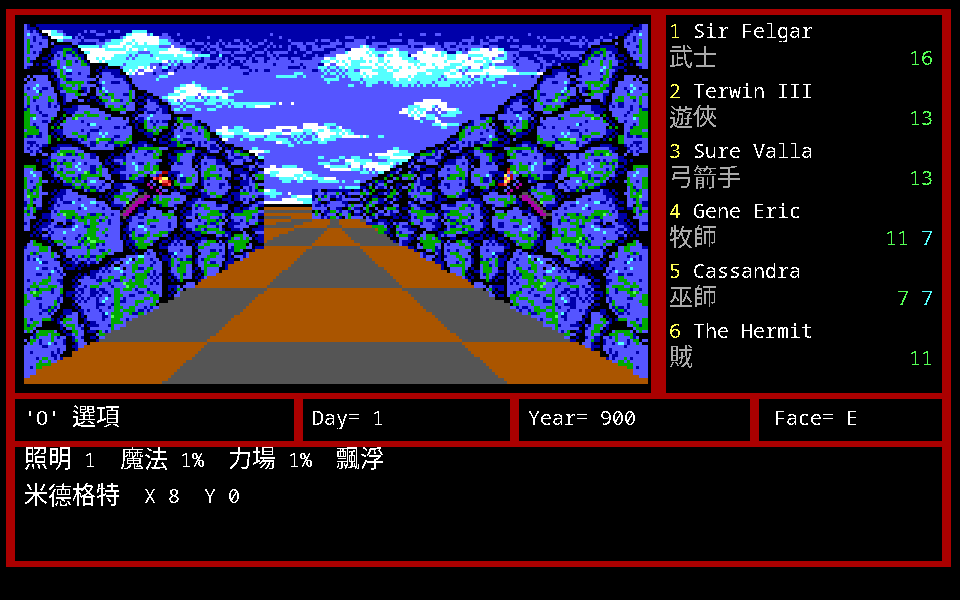
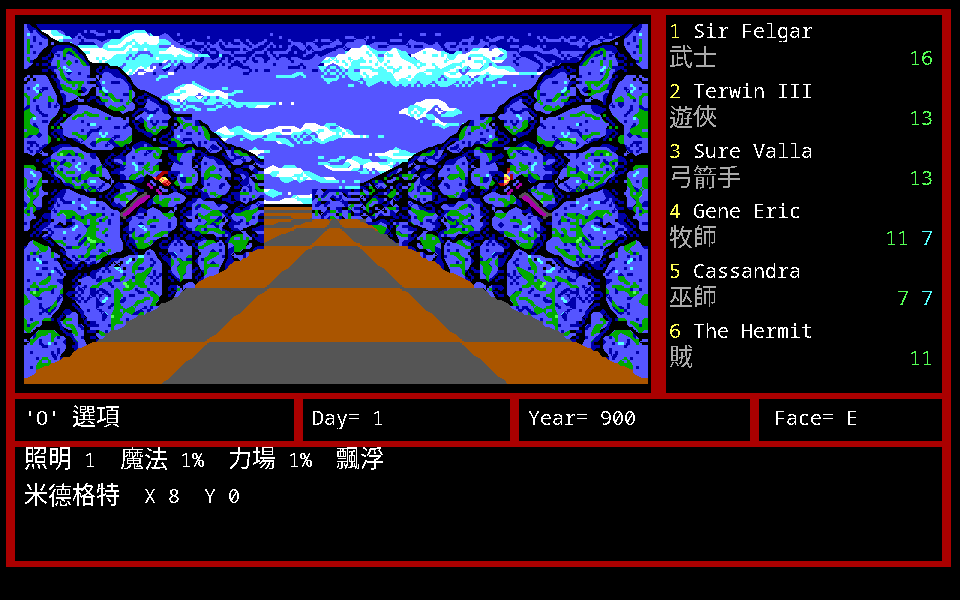
feat: Mega Drive 場景的調色盤解出來，第一人稱視野完整上色
整份 CRAM 就在 ROM `0x6FBEA`：128 bytes ＝ 四條 16 色。三條證據同時成立 ——
`0x6F900`–`0x6FD00` 裡唯一一段值全符合 `& 0x0EEE` 的連續區；全 ROM 掃
32-bit 立即值時 `0x0006FBEA` 命中八處而 `0x0006FBE8` 零命中（差的兩個
位元組就是「第 0 格不上傳」）；那八處都接著 `sub_2DBA(1, …)`（CRAM），
長度 `0x20`／`0x40`／`0x60`。

第 0 條就是方石砌那一套的顏色：灰色方石、褐色壁燈、藍天白雲、赭紅地磚。

**基底差兩個位元組不會有症狀**：用 `0x6FBE8` 畫出來仍然像合理的畫面，
只是雲變土黃、地變綠。這種錯只能靠「誰參考它」分辨，寫進文件了。

還沒定案的只剩「哪一套素材配哪一條線」：粗石與戶外用第 1 條看起來合理
（粗石變藍紫色，與 DOS 的 CAVE.16 同色系）但那只是假設，標在 todo 裡。

diff --git a/tools/mdscene.py b/tools/mdscene.py
@@ -95,6 +95,20 @@ TABLE_BASE = -0x35D2
 
 GRAY = [(255, 0, 255)] + [(i * 17, i * 17, i * 17) for i in range(1, 16)]
 
+# ROM 裡的整份 CRAM：`0x6FBEA` 起 **128 bytes ＝ 四條 16 色**，就接在
+# 夜空 `0x6FC6E` 的影像頭前面。判準有三條同時成立：
+#
+#   1. `0x6FBE8`–`0x6FC6C` 這 132 bytes 是整個 `0x6F900`–`0x6FD00` 裡
+#      唯一一段值全部符合 `& 0x0EEE` 的連續區，扣掉頭尾對齊剛好 128；
+#   2. **程式參考的是 `0x6FBEA` 不是 `0x6FBE8`** —— 全 ROM 掃 32-bit
+#      立即值，`0x0006FBEA` 命中八處，`0x0006FBE8` 零命中；
+#   3. 那八處都接著 `sub_2DBA(1, …)`（目標 1 ＝ CRAM），長度是
+#      `0x20`／`0x40`／`0x60`，也就是一次上傳一到三條。
+#
+# 第一人稱場景用第 0 條。四條是固定的一份，**不隨區域類型換** ——
+# 三套場景的顏色差異來自素材自己用哪些索引，不是換調色盤。
+ROM_CRAM = 0x6FBEA
+
 
 def _w(rom, p):
     return int.from_bytes(rom[p:p + 2], "big")
@@ -198,6 +212,16 @@ def compose(rom: bytes, table: dict, walls, palette=None):
             continue
         canvas[y:y + ch, x:x + cw] = im[:ch, :cw]
     return canvas
+
+
+def rom_palette(rom: bytes, line: int = 0):
+    """讀 ROM 內建的那份 CRAM 的第 line 條（16 色）。"""
+    out = []
+    for i in range(16):
+        v = _w(rom, ROM_CRAM + line * 32 + i * 2)
+        out.append((((v & 0x00E) >> 1) * 36, ((v & 0x0E0) >> 5) * 36,
+                    ((v & 0xE00) >> 9) * 36))
+    return out
 
 
 def read_palette(path: str):
@@ -313,16 +337,20 @@ def main() -> None:
     ap.add_argument("--sheet", help="每個區域類型的素材總覽圖輸出目錄")
     ap.add_argument("--compose", help="組出整幅視野的輸出目錄")
     ap.add_argument("--export", help="烘成 remake 素材包的輸出目錄")
-    ap.add_argument("--cram", help="BlastEm 傾印的 CRAM（128 bytes），沒有就用灰階")
-    ap.add_argument("--pal-line", type=int, default=0, help="用 CRAM 的第幾條調色盤線")
+    ap.add_argument("--cram", help="BlastEm 傾印的 CRAM（128 bytes），沒有就用 ROM 內建那份")
+    ap.add_argument("--pal-line", type=int, default=0, help="用第幾條調色盤線")
+    ap.add_argument("--gray", action="store_true", help="改用灰階（看索引分佈用）")
     ap.add_argument("--scale", type=int, default=2)
     args = ap.parse_args()
 
     rom = open(args.rom, "rb").read()
     tables = area_tables(rom)
-    pal = GRAY
-    if args.cram:
+    if args.gray:
+        pal = GRAY
+    elif args.cram:
         pal = read_palette(args.cram)[args.pal_line]
+    else:
+        pal = rom_palette(rom, args.pal_line)
 
     print(f"{len(tables)} 個區域類型")
     for ai, t in enumerate(tables):

diff --git a/docs/todo.md b/docs/todo.md
@@ -53,7 +53,7 @@ remake 少了整段機制。所以這幾項不能當成純文件工作跳過。
 | # | 項目 | 卡在哪 |
 |---|---|---|
 | ~~A1~~ | Amiga `.anm` 的動畫零件 | **解完**：72 個檔 530 個影格（72 基準圖 ＋ 458 零件）與 `0x31` 的動畫表都解出來並接進 remake。見 [`research/02`](research/02-other-platforms.md) |
-| A2 | Mega Drive 場景的調色盤 | 素材、版面、地板與天空都解出來並接進 `F6` 了（見 [`research/02`](research/02-other-platforms.md)）。**只剩顏色**：`0x6FBE8` 起有四組 16 色候選，但 ROM 裡沒有任何絕對位址參考它們，靜態追不到「哪一組配哪一個區域」。裁決要用執行時的 CRAM（`tools/mdscene.py --cram`），目前先用灰階烘 |
+| ~~A2~~ | Mega Drive 的場景素材 | **解完並接進 `F6`**：素材、版面、地板、天空、調色盤（`0x6FBEA` 起四條 16 色）都解出來了，見 [`research/02`](research/02-other-platforms.md)。剩一項小的：哪一套素材配哪一條調色盤線 —— 方石砌那套用第 0 條已證實，粗石與戶外用第 1 條看起來合理但只是**假設**，要拿執行時的 CRAM 裁決 |
 | ~~A3~~ | 片頭疊圖的換格週期與觸發規則 | **解完**：`ds:18D8` 是 47 步的固定清單、`ds:1936`／`ds:1954` 是落點，一步 700 個 tick（PIT 除數 `0x0400` ⇒ 0.601 秒）。remake 照它播。見 [`formats/04`](formats/04-graphics.md) |
 
 ## 5. 已經沒有未解項的區塊
